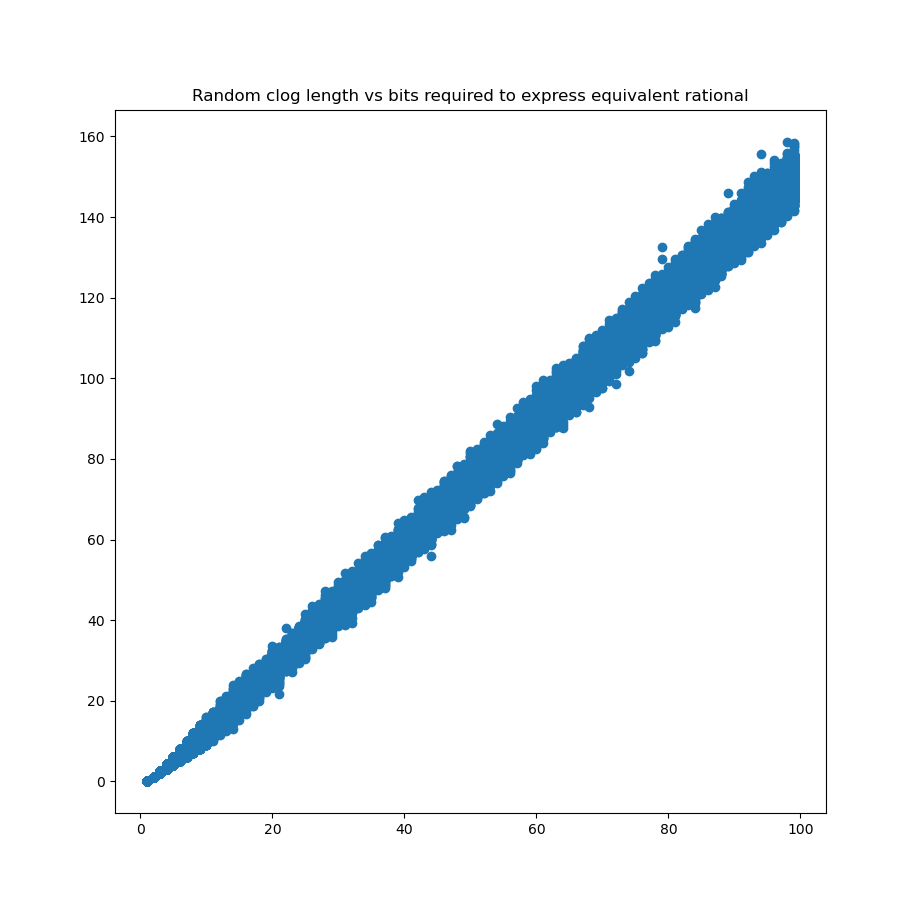
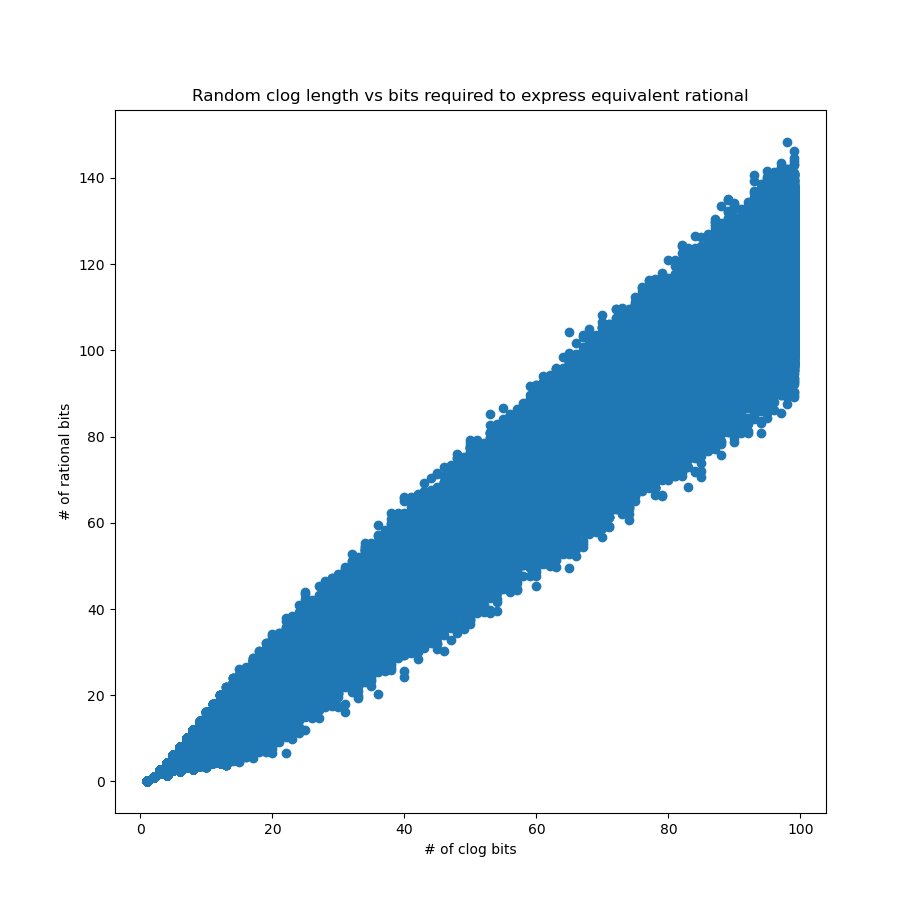
major progress on clogs (blft isnt speculative yet but it seems to be working) also writeup progress and other stuff

diff --git a/clog-calculator/src/clog.rs b/clog-calculator/src/clog.rs
@@ -73,7 +73,7 @@ pub fn lft<X>(x: X, mat: [BigInt; 4]) -> impl Stream
 where
     X: Stream,
 {
-    #[derive(Clone)]
+    #[derive(Clone, Debug)]
     struct Lft<X: Stream> {
         x: X,
         mat: [BigInt; 4],
@@ -93,10 +93,14 @@ where
                         self.mat[2] <<= 1;
                     }
                     Some(Term::DRec | Term::DRecSpec) => {
-                        //
+                        self.mat.swap(0, 1);
+                        self.mat.swap(2, 3);
+                        self.mat[0] += self.mat[1].clone();
+                        self.mat[2] += self.mat[3].clone();
                     }
                     Some(Term::Rec | Term::RecSpec) => {
-                        //
+                        self.mat.swap(0, 1);
+                        self.mat.swap(2, 3);
                     }
                     Some(Term::Neg) => {
                         self.mat[0] = -self.mat[0].clone();
@@ -108,16 +112,9 @@ where
                     }
                 }
                 // egest check
-                if (self.mat[0] < 0.into() && self.mat[1] < 0.into())
-                    ^ (self.mat[2] < 0.into() && self.mat[3] < 0.into())
-                {
-                    if self.mat[0] < 0.into() {
-                        self.mat[0] = -self.mat[0].clone();
-                        self.mat[1] = -self.mat[1].clone();
-                    } else {
-                        self.mat[2] = -self.mat[2].clone();
-                        self.mat[3] = -self.mat[3].clone();
-                    }
+                if (self.mat[0] < 0.into()) != (self.mat[2] < 0.into()) {
+                    self.mat[0] = -self.mat[0].clone();
+                    self.mat[1] = -self.mat[1].clone();
                     return Some(Term::Neg);
                 } else if (self.mat[0].clone() >> 1) >= self.mat[2]
                     && (self.mat[1].clone() >> 1) >= self.mat[3]
@@ -130,9 +127,19 @@ where
                         self.mat[3] <<= 1;
                     }
                     return Some(Term::Ord);
-                } else if self.mat[0] >= self.mat[2] && self.mat[1] >= self.mat[3] {
+                } else if self.mat[0] >= self.mat[2]
+                    && self.mat[1] >= self.mat[3]
+                    && (self.mat[0].clone() >> 1) < self.mat[2]
+                    && (self.mat[1].clone() >> 1) < self.mat[3]
+                {
+                    self.mat[0] -= self.mat[2].clone();
+                    self.mat[1] -= self.mat[3].clone();
+                    self.mat.swap(0, 2);
+                    self.mat.swap(1, 3);
                     return Some(Term::DRec);
                 } else if self.mat[0] < self.mat[2] && self.mat[1] < self.mat[3] {
+                    self.mat.swap(0, 2);
+                    self.mat.swap(1, 3);
                     return Some(Term::Rec);
                 }
             }
@@ -157,7 +164,147 @@ where
     impl<X: Stream, Y: Stream> Iterator for Blft<X, Y> {
         type Item = Term;
         fn next(&mut self) -> Option<Term> {
-            None
+            if self.mat[4] == 0.into()
+                && self.mat[5] == 0.into()
+                && self.mat[6] == 0.into()
+                && self.mat[7] == 0.into()
+            {
+                return None;
+            }
+
+            loop {
+                // ingest from x
+                match self.x.next() {
+                    Some(Term::Ord | Term::OrdSpec | Term::OrdSingularity) => {
+                        self.mat[0] <<= 1;
+                        self.mat[1] <<= 1;
+                        self.mat[4] <<= 1;
+                        self.mat[5] <<= 1;
+                    }
+                    Some(Term::DRec | Term::DRecSpec) => {
+                        self.mat.swap(0, 2);
+                        self.mat.swap(1, 3);
+                        self.mat.swap(4, 6);
+                        self.mat.swap(5, 7);
+                        self.mat[0] += self.mat[2].clone();
+                        self.mat[1] += self.mat[3].clone();
+                        self.mat[4] += self.mat[6].clone();
+                        self.mat[5] += self.mat[7].clone();
+                    }
+                    Some(Term::Rec | Term::RecSpec) => {
+                        self.mat.swap(0, 2);
+                        self.mat.swap(1, 3);
+                        self.mat.swap(4, 6);
+                        self.mat.swap(5, 7);
+                    }
+                    Some(Term::Neg) => {
+                        self.mat[0] = -self.mat[0].clone();
+                        self.mat[1] = -self.mat[1].clone();
+                        self.mat[4] = -self.mat[4].clone();
+                        self.mat[5] = -self.mat[5].clone();
+                    }
+                    None => {
+                        self.mat[2] = self.mat[0].clone();
+                        self.mat[3] = self.mat[1].clone();
+                        self.mat[6] = self.mat[4].clone();
+                        self.mat[7] = self.mat[5].clone();
+                    }
+                }
+                // ingest from y
+                match self.y.next() {
+                    Some(Term::Ord | Term::OrdSpec | Term::OrdSingularity) => {
+                        self.mat[0] <<= 1;
+                        self.mat[2] <<= 1;
+                        self.mat[4] <<= 1;
+                        self.mat[6] <<= 1;
+                    }
+                    Some(Term::DRec | Term::DRecSpec) => {
+                        self.mat.swap(0, 1);
+                        self.mat.swap(2, 3);
+                        self.mat.swap(4, 5);
+                        self.mat.swap(6, 7);
+                        self.mat[0] += self.mat[1].clone();
+                        self.mat[2] += self.mat[3].clone();
+                        self.mat[4] += self.mat[5].clone();
+                        self.mat[6] += self.mat[7].clone();
+                    }
+                    Some(Term::Rec | Term::RecSpec) => {
+                        self.mat.swap(0, 1);
+                        self.mat.swap(2, 3);
+                        self.mat.swap(4, 5);
+                        self.mat.swap(6, 7);
+                    }
+                    Some(Term::Neg) => {
+                        self.mat[0] = -self.mat[0].clone();
+                        self.mat[2] = -self.mat[2].clone();
+                        self.mat[4] = -self.mat[4].clone();
+                        self.mat[6] = -self.mat[6].clone();
+                    }
+                    None => {
+                        self.mat[1] = self.mat[0].clone();
+                        self.mat[3] = self.mat[1].clone();
+                        self.mat[5] = self.mat[4].clone();
+                        self.mat[7] = self.mat[6].clone();
+                    }
+                }
+                // egest check
+                if (self.mat[0] < 0.into()) != (self.mat[4] < 0.into()) {
+                    self.mat[0] = -self.mat[0].clone();
+                    self.mat[1] = -self.mat[1].clone();
+                    self.mat[2] = -self.mat[2].clone();
+                    self.mat[3] = -self.mat[3].clone();
+                    return Some(Term::Neg);
+                } else if (self.mat[0].clone() >> 1) >= self.mat[4]
+                    && (self.mat[1].clone() >> 1) >= self.mat[5]
+                    && (self.mat[2].clone() >> 1) >= self.mat[6]
+                    && (self.mat[3].clone() >> 1) >= self.mat[7]
+                {
+                    if !self.mat[0].bit(0)
+                        && !self.mat[1].bit(0)
+                        && !self.mat[2].bit(0)
+                        && !self.mat[3].bit(0)
+                    {
+                        self.mat[0] >>= 1;
+                        self.mat[1] >>= 1;
+                        self.mat[2] >>= 1;
+                        self.mat[3] >>= 1;
+                    } else {
+                        self.mat[4] <<= 1;
+                        self.mat[5] <<= 1;
+                        self.mat[6] <<= 1;
+                        self.mat[7] <<= 1;
+                    }
+                    return Some(Term::Ord);
+                } else if self.mat[0] >= self.mat[4]
+                    && self.mat[1] >= self.mat[5]
+                    && self.mat[2] >= self.mat[6]
+                    && self.mat[3] >= self.mat[7]
+                    && (self.mat[0].clone() >> 1) < self.mat[4]
+                    && (self.mat[1].clone() >> 1) < self.mat[5]
+                    && (self.mat[2].clone() >> 1) < self.mat[6]
+                    && (self.mat[3].clone() >> 1) < self.mat[7]
+                {
+                    self.mat[0] -= self.mat[4].clone();
+                    self.mat[1] -= self.mat[5].clone();
+                    self.mat[2] -= self.mat[6].clone();
+                    self.mat[3] -= self.mat[7].clone();
+                    self.mat.swap(0, 4);
+                    self.mat.swap(1, 5);
+                    self.mat.swap(2, 6);
+                    self.mat.swap(3, 7);
+                    return Some(Term::DRec);
+                } else if self.mat[0] < self.mat[4]
+                    && self.mat[1] < self.mat[5]
+                    && self.mat[2] < self.mat[6]
+                    && self.mat[3] < self.mat[7]
+                {
+                    self.mat.swap(0, 4);
+                    self.mat.swap(1, 5);
+                    self.mat.swap(2, 6);
+                    self.mat.swap(3, 7);
+                    return Some(Term::Rec);
+                }
+            }
         }
     }
     impl<X: Stream, Y: Stream> Stream for Blft<X, Y> {}

diff --git a/clog-calculator/src/main.rs b/clog-calculator/src/main.rs
@@ -2,6 +2,38 @@ mod clog;
 mod parse;
 
 fn main() {
+    // let rat = clog::rational(2147483632u32.into(), 1u32.into(), -1);
+    // println!("hi {:?}", rat.clone().collect::<Vec<_>>());
+    // let mut iter = clog::lft(rat.clone(), [1.into(), 0.into(), 0.into(), 1.into()]);
+    // for _ in 0..10 {
+    //     println!("{:?}", iter.next())
+    // }
+    // println!(
+    //     "ha {:?}",
+    //     clog::lft(rat.clone(), [1.into(), 0.into(), 0.into(), 1.into()],).collect::<Vec<_>>()
+    // );
+
+    let c1 = clog::rational(10u32.into(), 3u32.into(), 1);
+    let c2 = clog::rational(15u32.into(), 1u32.into(), 1);
+    let iter = clog::blft(
+        c1,
+        c2,
+        [
+            1.into(),
+            0.into(),
+            0.into(),
+            0.into(),
+            0.into(),
+            0.into(),
+            0.into(),
+            1.into()
+        ]
+    );
+    println!("{:?}", iter.collect::<Vec<_>>());
+    // for _ in 0..20 {
+    //     println!("{:?}", iter.next())
+    // }
+
     // TODO this might be cool as a C program
     // to make a calculator for my operating system...
     let stdin = std::io::stdin();

diff --git a/clog-testing/utils.py b/clog-testing/utils.py
@@ -1,3 +1,5 @@
+from math import gcd
+
 def leading_ones(cl):
     i = 0
     while i < len(cl) and cl[i] != 0:
@@ -24,7 +26,8 @@ def clog_to_rational(cl):
             mat[3] += mat[2]
             mat[0], mat[1] = mat[1], mat[0]
             mat[2], mat[3] = mat[3], mat[2]
-    return mat[0], mat[2]
+    g = gcd(mat[0], mat[2])
+    return mat[0]//g, mat[2]//g
 
 def rational_to_clog(num, den):
     cl = []

diff --git a/clog-testing/random-clogs.py b/clog-testing/random-clogs.py
@@ -33,6 +33,8 @@ def prec_of_rat(rational):
 
 #print(prec_of_rat(clog_to_rational(random_clog(30, 0, 0.5))))
 plt.title("Random clog length vs bits required to express equivalent rational")
+plt.xlabel("# of clog bits")
+plt.ylabel("# of rational bits")
 #plt.xscale("log")
 sample_random_clogs(10000, 100, 0, 0.5)
 plt.show()

diff --git a/clog-writeup.md b/clog-writeup.md
@@ -1,9 +1,27 @@
-Continued Logarithms Are a Flawed (But Very Interesting) Representation
+Continued Logarithms Are a Flawed Way to do Rational Arithmetic
 =
 
-For the uninitiated, continued logarithms are a variant of continued fraction first conceived in a 1978 manuscript written by Bill Gosper.
+TODO: DO THE PRESENTATION!!!!!!
 
-They enable a far more computationally efficient arithmetic algorithm than is otherwise possible for continued fractions, while preserving many of their nice properties, making them suitable (at least in theory) for high precision exact arithmetic.
+THE QUESTIONS:
+- What did you set out to accomplish?
+- What did you actually accomplish?
+- What did you learn? <--- IMPORTANT
+- If you continued the project, where would it go from here?
+TO DO: (8 min target, 10 min HARD LIMIT)
+- Finish writeup
+- Calculator
+- Demo (+ slides as bookends?)
+
+...but perhaps an underrated way to mix real and rational arithmetic.
+
+Continued logarithms never caught on as a representation for doing computer arithmetic.
+
+## Wait, What Are Continued Logarithms?
+
+For the uninitiated, continued logarithms are a variant of continued fraction first conceived in [a 1975 manuscript written by Bill Gosper](https://www.tweedledum.com/rwg/cfup.htm).
+
+They enable a far more computationally efficient arithmetic algorithm than is otherwise possible for continued fractions, while preserving many of their nice properties, making them suitable (at least in theory) for exact high precision arithmetic.
 
 The original paper, dense as it is, can probably motivate and explain them better than I can here. It's a delightful read, would recommend :D
 
@@ -29,6 +47,8 @@ Here's the process for finding the continued logarithm of 30/7.
 30/7 = 110111001010
 ```
 
+## Continued Logarithms Are Flawed
+
 Continued logarithms never did catch on; there's very little literature about them, and they are very obscure compared to other methods for high precision arithmetic (arbitrary precision floats, bignum rationals, interval arithmetic).
 
 I got to wondering why, and I've come to the conclusion that it's at least partially due to the fact they use too many bits to represent the numbers people actually want to represent.
@@ -43,7 +63,7 @@ Arithmetic uses only bitshifts, swaps, compares, and two's complement addition/s
 
 Also, since this algorithm evaluates expressions of the form `(axy + bx + cy + d)/(exy + fx + gy + h)`, division is no more expensive than addition, and what might otherwise be multiple distinct arithmetic operations can be bundled together.
 
-There exist algorithms for sqrt ([TODO gosper]()), log/exp (first attested [here](https://mathr.co.uk/web/continued-logarithm.html#Logarithm)), along with all the trig stuff you could possibly want that are approximately as taxing as arithmetic.
+There exist algorithms for sqrt ([Gosper](https://www.tweedledum.com/rwg/cfup.htm); line 1101 for cfracs, line 2486 for clogs) and log/exp (first attested [here in this random Haskell package](https://mathr.co.uk/web/continued-logarithm.html#Logarithm)), along with all the trig stuff you could possibly want, all approximately as taxing as regular arithmetic.
 
 Continued logarithms, like continued fractions, are capable of representing all exact rationals with a number of bits scaling with the complexity of the number. No `0.1 + 0.2 = 0.30000000000000004`. That's all well and good, but what does "scaling with the complexity of the number" mean, exactly?
 
@@ -54,3 +74,48 @@ However, as Gosper points out in his original paper [TODO inline citation], this
 Continued logarithms, Gosper posits [TODO inline citation], might have a better spread: each 1 term represents a binary order of magnitude, so that 2^128 requires only 128 bits; by the same token, 2^-128 requires just 129.
 
 Unfortunately, the way this representation spreads its precision remains problematic; so see that, let's check how many bits it takes to represent a bunch of random rationals as
+
+## What's That? A Use for Continued Logarithms???
+
+So far we've only been talking about continued logarithms as a way to do rational arithmetic. But what about real arithmetic?
+
+On its face, there's a problem with that: what to do about sqrt(2) * sqrt(2)? Our arithmetic algorithm is never be able to decide what even the first bit of that number is; is it greater than or less than 2?? We can't ingest an infinite number of terms, and so we never know which side of the line we end up on.
+
+Speculatively Redundant Continued Logarithms
+
+It doesn't solve
+
+[TODO]
+[ADAPT THIS!!!]
+[THIS IS COPIED STRAIGHT FROM MY README]
+Inspired by a [lobsters post](https://lobste.rs/s/xjrlj2/how_android_s_calculator_works_with_real), I wrote a CLI calculator implemented with a speculatively redundant continued logarithm scheme, as described in [Brabec 2010](https://ieeexplore.ieee.org/document/5467052).
+
+An easier way to do real arithmetic than RRA or computer algebra.
+
+I would leverage [this](https://mathr.co.uk/web/continued-logarithm.html) beautiful, featureful, yet concise Haskell implementation of continued logarithms were it to support speculatively redundant continued logarithms; however, our calculator needs to be able to evaluate sqrt(2) * sqrt(2) correctly! So, we have to roll our own.
+
+## Important Work
+
+These works (all cited inline above) made some significant innovation to
+
+Continued Fraction Arithmetic (Bill Gosper, 1975)\n
+https://www.tweedledum.com/rwg/cfup.htm
+
+Hardware Implementation of Continued Logarithm Arithmetic (2006, Toma ́s Brabec)\n
+https://ieeexplore.ieee.org/document/4402399
+
+Speculatively Redundant Continued Logarithm Representation (2010, Toma ́s Brabec)\n
+https://ieeexplore.ieee.org/document/5467052
+
+Continued Logarithm (2024, Claude Heiland-Allen)\n
+https://mathr.co.uk/web/continued-logarithm.html
+
+### Other stuff
+
+I didn't find these papers to bring much novel stuff to the table re: continued fraction-based arithmetic. But they exist, so I'm citing them for completeness.
+
+On the Use of Continued Fractions for Digital Computer Arithmetic (1977)\n
+https://ieeexplore.ieee.org/document/1674903
+
+Continued fractions for high-speed and high-accuracy computer arithmetic (1983)\n
+https://ieeexplore.ieee.org/document/6158099
